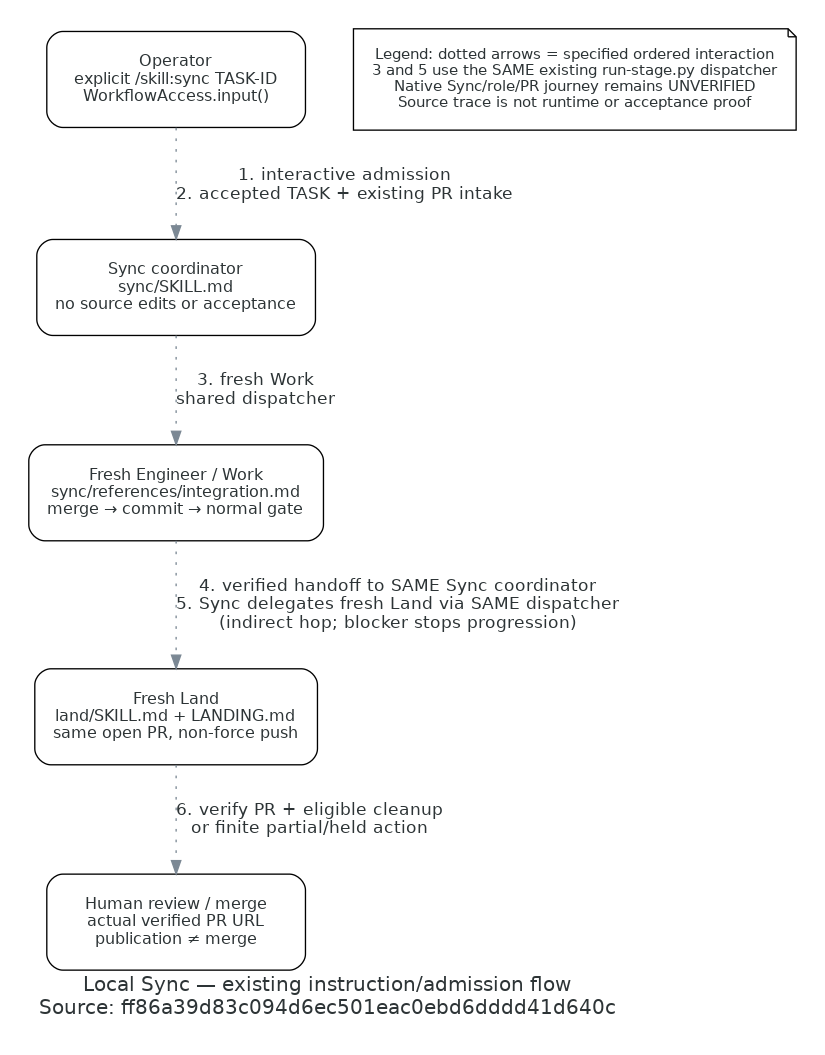
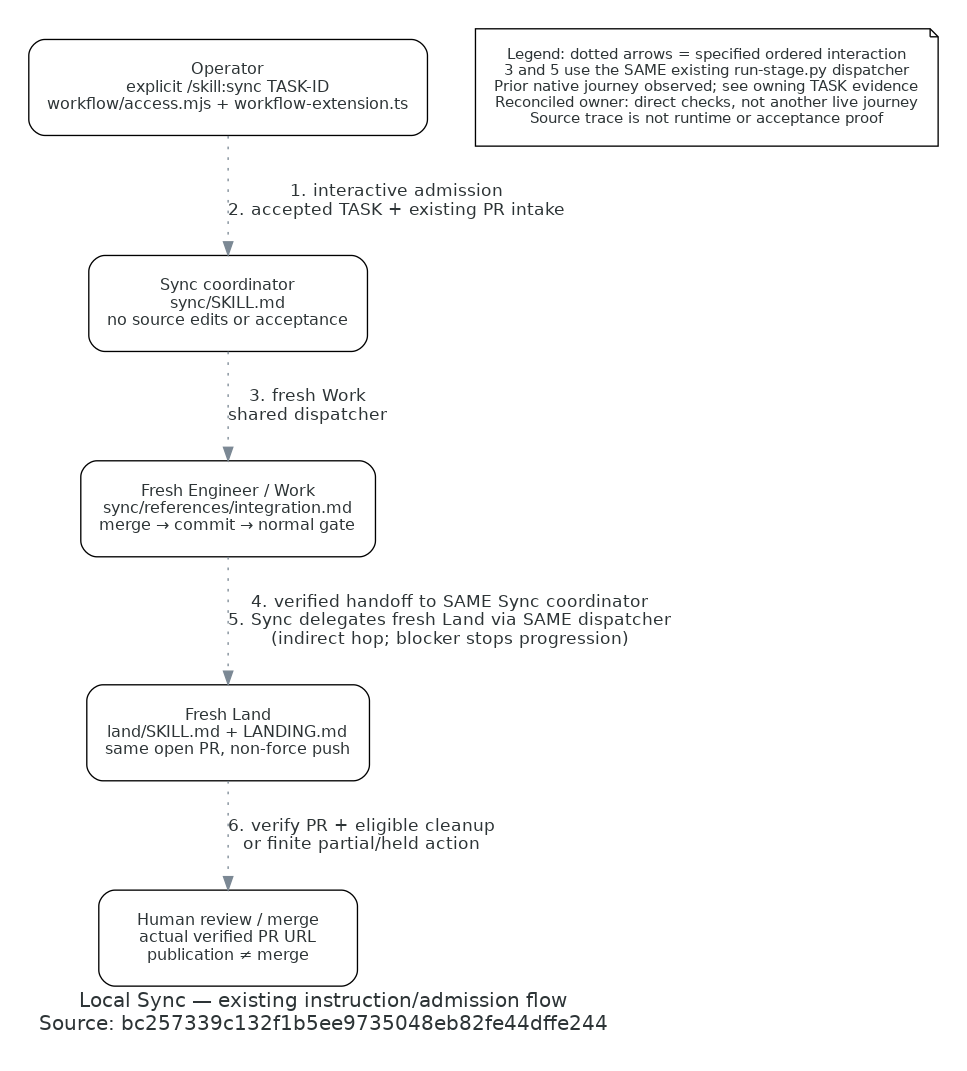
Trace reconciled Sync owner and distinguish real journey evidence

Changed region(s): [[0.0303, 0.0303, 0.9697, 0.6066], [0.0303, 0.819, 0.7576, 0.9706], [0.0606, 0.6066, 0.5455, 0.819]]

diff --git a/docs/engineering/sync/sync-flow.py b/docs/engineering/sync/sync-flow.py
@@ -3,7 +3,7 @@ from pathlib import Path
 
 from diagrams import Diagram, Edge, Node
 
-SOURCE = 'ff86a39d83c094d6ec501eac0ebd6dddd41d640c'
+SOURCE = 'bc257339c132f1b5ee9735048eb82fe44dffe244'
 OUTPUT = Path(__file__).with_suffix('')
 
 with Diagram(
@@ -15,12 +15,12 @@ with Diagram(
                'height': '1.0', 'style': 'rounded', 'fixedsize': 'false', 'labelloc': 'c', 'margin': '0.2'},
     edge_attr={'fontname': 'DejaVu Sans', 'fontsize': '10'},
 ):
-    operator = Node('Operator\nexplicit /skill:sync TASK-ID\nWorkflowAccess.input()', nodeid='operator')
+    operator = Node('Operator\nexplicit /skill:sync TASK-ID\nworkflow/access.mjs + workflow-extension.ts', nodeid='operator')
     coordinator = Node('Sync coordinator\nsync/SKILL.md\nno source edits or acceptance', nodeid='sync')
     engineer = Node('Fresh Engineer / Work\nsync/references/integration.md\nmerge → commit → normal gate', nodeid='engineer')
     land = Node('Fresh Land\nland/SKILL.md + LANDING.md\nsame open PR, non-force push', nodeid='land')
     human = Node('Human review / merge\nactual verified PR URL\npublication ≠ merge', nodeid='human')
-    legend = Node('Legend: dotted arrows = specified ordered interaction\n3 and 5 use the SAME existing run-stage.py dispatcher\nNative Sync/role/PR journey remains UNVERIFIED\nSource trace is not runtime or acceptance proof',
+    legend = Node('Legend: dotted arrows = specified ordered interaction\n3 and 5 use the SAME existing run-stage.py dispatcher\nPrior native journey observed; see owning TASK evidence\nReconciled owner: direct checks, not another live journey\nSource trace is not runtime or acceptance proof',
                   nodeid='legend', shape='note', width='4.5', fontsize='11')
     operator >> Edge(label='1. interactive admission\n2. accepted TASK + existing PR intake', style='dotted') >> coordinator
     coordinator >> Edge(label='3. fresh Work\nshared dispatcher', style='dotted') >> engineer

diff --git a/docs/engineering/sync/README.md b/docs/engineering/sync/README.md
@@ -1,9 +1,8 @@
 # Local Sync role flow
 
-**Existing instruction/admission flow** at implementation source
-`ff86a39d83c094d6ec501eac0ebd6dddd41d640c`. This view explains the new coordinator's ownership and reuse of
-existing dispatch, not a successful native Sync/role/PR observation. The later diagram/documentation commit does
-not change the represented admission, role-assignment or dispatch sources.
+**Existing instruction/admission flow** at reconciled source
+`bc257339c132f1b5ee9735048eb82fe44dffe244`. This view traces the native workflow owner and reuse of existing
+process dispatch. The following diagram/documentation changes do not alter those represented sources.
 
 ![Local Sync instruction and role flow](sync-flow.png)
 
@@ -18,17 +17,25 @@ All source rows refer to the full implementation revision above; retrieve with `
 
 | Arrow | Source at that revision | Meaning and evidence limit |
 |---|---|---|
-| 1 | [`WorkflowAccess.input`](../../../harness/pi/src/jev/workflow-access.mjs) | Explicit interactive `sync` selects one TASK, coordination/QA phase and checkout; RPC/extension text cannot select it. Parser qualification is not native operator execution. |
-| 2 | [Sync intake](../../../.pi/skills/sync/SKILL.md#admit-one-accepted-subject) | Coordinator checks actual acceptance applicability and exact existing OPEN PR; missing/contradictory evidence holds effects. No actual input PR was used in Work qualification. |
-| 3 | [Sync delegation](../../../.pi/skills/sync/SKILL.md#delegate-integration-then-delivery), [provider dispatcher](../../../.pi/skills/build/scripts/run-stage.py) and [owning process monitor](../../../harness/pi/src/observation/run-stage.py) | Fresh Engineer uses existing qualified native package/trust/role process path. No parallel launcher and no Build-only SDK substitution. Real Sync child custody remains unqualified in this Work run. |
-| 4 | [Work assignment](../../../.pi/skills/sync/references/integration.md) | Preserve both intents and original reports; commit integration and run normal gate. Concrete incompatible intent, defects, new behavior or failed verification stop advancement. Local Git/planning effects were exercised separately, not through a real Sync child. |
-| 5 | [Sync progression](../../../.pi/skills/sync/SKILL.md#delegate-integration-then-delivery), [Land](../../../.pi/skills/land/SKILL.md) | Verified integration automatically delegates fresh Land through the SAME dispatcher; no routine Review/QA. Actual automatic progression is unverified. |
-| 6 | [Advancing-base policy](../LANDING.md#reconcile-an-advancing-base), [delivery verification](../LANDING.md#verify-and-publish) and [resources](../RESOURCE_LIFECYCLE.md) | Land validates scope/evidence, updates only the same PR, verifies exact published head and required evidence, and retires eligible resources. Publication, cleanup holds and human merge remain distinct; no actual PR effect was performed by Work. |
+| 1 | [`WorkflowAccess.input`](../../../harness/pi/src/workflow/access.mjs) and [native extension](../../../harness/pi/src/workflow-extension.ts) | Explicit interactive `sync` selects one TASK, coordination/QA phase and checkout; RPC/extension text cannot select it. Native status is `fight_workflow_status` / `/fight-workflow`, not a file-tool permission gate. Direct SDK checks use simulated input, not operator authority. |
+| 2 | [Sync intake](../../../.pi/skills/sync/SKILL.md#admit-one-accepted-subject) | Coordinator checks actual acceptance applicability and exact existing OPEN PR; missing/contradictory evidence holds effects. |
+| 3 | [Sync delegation](../../../.pi/skills/sync/SKILL.md#delegate-integration-then-delivery), [provider dispatcher](../../../.pi/skills/build/scripts/run-stage.py) and [owning process monitor](../../../harness/pi/src/observation/run-stage.py) | Fresh Engineer uses existing native package/trust/role/custody machinery with `FIGHT_WORKFLOW_PHASE/TASK/CHECKOUT`. No evaluator preflight, parallel launcher or Build-only SDK substitution. |
+| 4 | [Work assignment](../../../.pi/skills/sync/references/integration.md) | Preserve both intents and original reports; commit integration and run normal gate. Concrete incompatible intent, defects, new behavior or failed verification stop advancement. |
+| 5 | [Sync progression](../../../.pi/skills/sync/SKILL.md#delegate-integration-then-delivery), [Land](../../../.pi/skills/land/SKILL.md) | Verified integration automatically delegates fresh Land through the SAME dispatcher; no routine Review/QA. This does not remove independent acceptance of Sync's new implementation. |
+| 6 | [Advancing-base policy](../LANDING.md#reconcile-an-advancing-base), [delivery verification](../LANDING.md#verify-and-publish) and [resources](../RESOURCE_LIFECYCLE.md) | Land checks scope/evidence, updates only the same PR, verifies exact published head and required evidence, and retires eligible resources. Publication, cleanup holds and human merge remain distinct. |
 
-## Scope and limitations
+## Evidence boundary and omissions
 
-The diagram omits internal custody protocol, timeout/observation internals, model selection, Git conflict hunks,
-application services and detailed resource guards. The [owning skill](../../../.pi/skills/sync/SKILL.md) and shared
-standards retain those contracts. This is local trusted workflow guidance, not a server grant or an OS sandbox.
-The new Sync implementation itself requires normal independent Review and applicable QA. Accepted input TASKs
-can reuse their original independent reports only within the approved integration-only boundary.
+[TASK-00587's owning evidence checkpoint](../../../planning/tasks/00587-TASK.md#native-journey-evidence-and-upstream-reconciliation--2026-11-07)
+records a genuine operator-selected journey on the original candidate: fresh Engineer, automatic fresh Land,
+unchanged original reports, actual integration/gates/same-PR update, source-consumer hold beside successful Docker
+teardown and later cleanup-only completion. That input PR has ended merged; it is not another runnable demonstration.
+The historical journey predates the native-owner migration. Direct admission/restore/package checks qualify the
+reconciled owner, but no second genuine journey or independent acceptance of this reconciled candidate is claimed.
+Original source/diagram revision `ff86a39d83c094d6ec501eac0ebd6dddd41d640c` remains retrievable through Git history.
+
+The view omits internal custody, timeout/observation internals, model selection, conflict hunks, application
+services and detailed resource guards. The [owning skill](../../../.pi/skills/sync/SKILL.md) and shared standards
+retain those contracts. This is trusted local guidance, not a server grant or OS sandbox. Sync itself still needs
+normal independent Review and applicable QA; accepted inputs reuse original reports only within the approved
+integration-only boundary. The picture is a source trace, not proof of runtime effects or acceptance.

diff --git a/harness/pi/WORKFLOW_RULE.md b/harness/pi/WORKFLOW_RULE.md
@@ -7,8 +7,8 @@ evaluator credential or provider preflight is required. Keep credentials and pri
 
 ## Session-local workflow
 
-Interactive `/skill:work`, `/skill:review`, `/skill:qa`, `/skill:land`, `/skill:sync` and other installed skill invocations select
-responsibilities. Select the operator's intended checkout with `--checkout /absolute/selected/checkout`; this
+Interactive `/skill:work`, `/skill:review`, `/skill:qa`, `/skill:land`, `/skill:sync` and other installed skill
+invocations select responsibilities. Select the operator's intended checkout with `--checkout /absolute/selected/checkout`; this
 records task ownership, not another approval or file permission. Fresh sessions use their containing checkout.
 A trusted process launcher supplies role, task and checkout. A launcher takes precedence on every startup/reload.
 Otherwise the latest session-wide selection survives tree navigation and restart only with matching session and
@@ -20,8 +20,8 @@ Inspect `fight_workflow_status.workflow` or `/fight-workflow`: `skill`, `effect`
 a QA-worker mismatch. Sync also has phase `qa`, skill `sync` and effect `coordination`: it coordinates one
 previously accepted TASK through fresh Engineer then Land, not routine Review/QA or new implementation.
 Use `/skill:sync TASK-NNNNN [--checkout /absolute/selected/checkout]`; current acceptance and the same existing
-OPEN PR remain required by its owning skill. Only interactive operator input or a trusted host binding changes authority. RPC, model
-prompts, stage labels, fixtures and profiles cannot promote a role. `/fight-workflow role engineer|reviewer|qa|land`
+OPEN PR remain required by its owning skill. Only interactive operator input or a trusted host binding changes
+authority. RPC, model prompts, stage labels, fixtures and profiles cannot promote a role. `/fight-workflow role engineer|reviewer|qa|land`
 is an explicit native-TUI alternative. SDK subordinates remain Reviewer unless the trusted host binds the actual
 fresh Engineer session through the supported Build route. An execution status is never independent acceptance.
 

diff --git a/.pi/skills/README.md b/.pi/skills/README.md
@@ -49,8 +49,8 @@ to fresh Land. It reuses Build's process dispatch/model/observation and subject 
 Intent-preserving code conflicts alone do not require Review/QA again; defects, new behavior and failed checks
 stop the fast path. Original reports remain unchanged. Actual native Sync selection requires a Harness containing
 Sync admission; skill discovery alone does not update an installed copy or grant coordinator authority.
-The [source-traced role flow](../../docs/engineering/sync/README.md) distinguishes instruction/dispatch ownership
-from still-required native journey qualification.
+The [source-traced role flow](../../docs/engineering/sync/README.md) separates current ownership from prior
+native-journey evidence; independent Review/QA of Sync itself remains required.
 
 [Writing for Agents](writing-for-agents/SKILL.md) supports skill/instruction authoring now.
 [Graphify](graphify/SKILL.md) queries derived source relationships and scopes explicit maintenance; installing this

diff --git a/.pi/skills/sync/SKILL.md b/.pi/skills/sync/SKILL.md
@@ -15,7 +15,7 @@ Follow the [native workflow rule](../../../harness/pi/WORKFLOW_RULE.md).
 ## Admit one accepted subject
 
 `/skill:sync TASK-NNNNN [--checkout /absolute/selected/checkout]` selects exactly one TASK. No TICKET expansion,
-new PR, approval, merge, rebase, force-push, release, deployment or other-TASK sweep. Explicit operator invocation
+new PR, approval, PR merge, rebase, force-push, release, deployment or other-TASK sweep. Explicit operator invocation
 authorizes bounded integration/commit/checks, automatic Land, non-force update of the same PR and ordinary
 eligible cleanup, subject to narrower instructions. Reuse the user's checkout choice; ask main versus worktree
 only when missing. A workflow selection is not installation, project trust or OS isolation.
